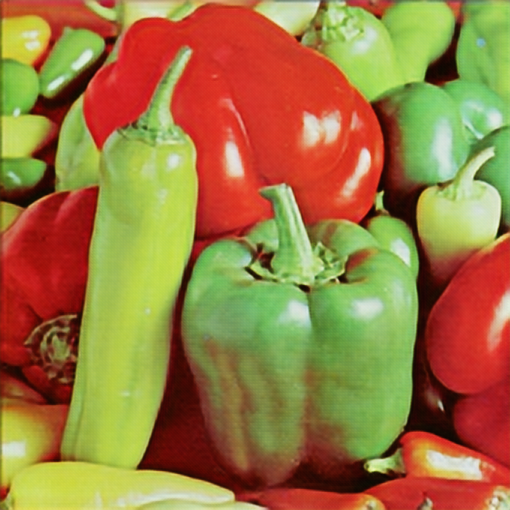
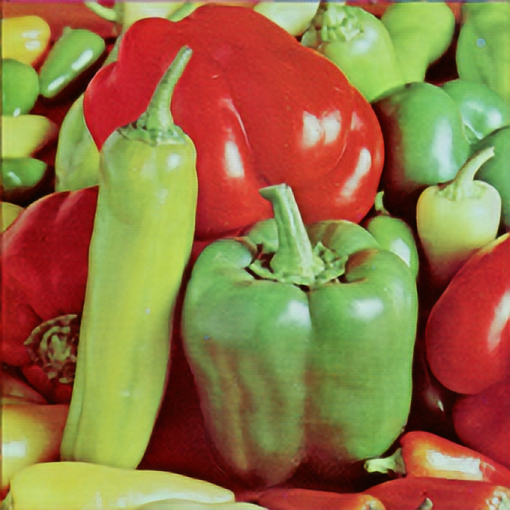
bb_try-sharp-in-aug

diff --git a/train.py b/train.py
@@ -13,6 +13,7 @@ import torch.optim as optim
 import torch.utils.data
 
 from sklearn.model_selection import train_test_split
+from sklearn.model_selection import KFold
 from math import log10
 from tqdm import tqdm
 import pandas as pd
@@ -26,8 +27,9 @@ if __name__ == "__main__":
     parser.add_argument("--dataset-path", required=True, type=str, help="path to training dataset")
     parser.add_argument("--crop_size", default=88, type=int, help="training images crop size")
     parser.add_argument(
-        "--upscale_factor", default=4, type=int, help="super resolution upscale factor"
-    ) # choices=[2, 4, 8], 
+        "--upscale_factor", default=4, choices=[2, 4, 8],
+        type=int, help="super resolution upscale factor"
+    )
     parser.add_argument("--epochs", default=30, type=int, help="# of epochs")
     parser.add_argument("--batch-size", default=64, type=int, help="batch size")
     parser.add_argument("--save-path", default="models", type=str, help="path to save training weight")
@@ -43,25 +45,45 @@ if __name__ == "__main__":
     SAVE_PATH      = args.save_path
     os.makedirs(SAVE_PATH, exist_ok=True)
 
+    # Private attribute
+    GEN_WEIGHT = "models/5fold_gen_SRx8.pth"
+    DIS_WEIGHT = "models/5fold_dis_SRx8.pth"
+    VAL_IMAGE_SAVE_FREQ = 50
+    VAL_IMAGE_SAVE_N    = 1
+    FOLD_ID = 0
+
     TRAIN_PATH = "DS_tv/train"
     VALID_PATH = "DS_tv/valid"
     os.makedirs(TRAIN_PATH, exist_ok=True)
     os.makedirs(VALID_PATH, exist_ok=True)
     img_names = os.listdir(DATASET_PATH)
-    train_imgs, valid_imgs = train_test_split(img_names, test_size=0.2)
-    for img_name in train_imgs:
+    # train_imgs, valid_imgs = train_test_split(img_names, test_size=0.2)
+    # for img_name in train_imgs:
+    #     shutil.copyfile(os.path.join(DATASET_PATH, img_name), os.path.join(TRAIN_PATH, img_name))
+    # for img_name in valid_imgs:
+    #     shutil.copyfile(os.path.join(DATASET_PATH, img_name), os.path.join(VALID_PATH, img_name))
+    kf = KFold(n_splits=5, shuffle=True, random_state=2022)
+    tra_val_pair = [fold for fold in kf.split(img_names)]
+    for img_id in tra_val_pair[FOLD_ID][0]:
+        img_name = img_names[img_id]
         shutil.copyfile(os.path.join(DATASET_PATH, img_name), os.path.join(TRAIN_PATH, img_name))
-    for img_name in valid_imgs:
+    for img_id in tra_val_pair[FOLD_ID][1]:
+        img_name = img_names[img_id]
         shutil.copyfile(os.path.join(DATASET_PATH, img_name), os.path.join(VALID_PATH, img_name))
 
+
     train_set = TrainDatasetFromFolder(TRAIN_PATH, crop_size=CROP_SIZE, upscale_factor=UPSCALE_FACTOR)
-    val_set = ValDatasetFromFolder(VALID_PATH, upscale_factor=UPSCALE_FACTOR)
+    valid_set = ValDatasetFromFolder(VALID_PATH, upscale_factor=UPSCALE_FACTOR)
     train_loader = DataLoader(dataset=train_set, num_workers=4, batch_size=BATCH_SIZE, shuffle=True)
-    val_loader = DataLoader(dataset=val_set, num_workers=4, batch_size=1, shuffle=True)
+    val_loader = DataLoader(dataset=valid_set, num_workers=4, batch_size=1, shuffle=True)
 
     netG = Generator(UPSCALE_FACTOR)
+    if GEN_WEIGHT is not None:
+        netG.load_state_dict(torch.load(GEN_WEIGHT))
     print("# generator parameters:", sum(param.numel() for param in netG.parameters()))
     netD = Discriminator()
+    if DIS_WEIGHT is not None:
+        netD.load_state_dict(torch.load(DIS_WEIGHT))
     print("# discriminator parameters:", sum(param.numel() for param in netD.parameters()))
 
     generator_criterion = GeneratorLoss()
@@ -170,12 +192,11 @@ if __name__ == "__main__":
                     [display_transform()(val_hr_restore.squeeze(0)), display_transform()(hr.data.cpu().squeeze(0)),
                      display_transform()(sr.data.cpu().squeeze(0))])
 
-            if epoch % 10 == 0 and epoch != 0:
+            if epoch % VAL_IMAGE_SAVE_FREQ == 0 and epoch != 0:
                 val_images = torch.stack(val_images)
                 val_images = torch.chunk(val_images, val_images.size(0) // 15)
 
-                n_export_image = 3
-                for img_idx in range(min(n_export_image, len(val_images))):
+                for img_idx in range(min(VAL_IMAGE_SAVE_N, len(val_images))):
                     image = val_images[img_idx]
                     img_name = "SRF_{}_ep{}_{}.png".format(UPSCALE_FACTOR, epoch, img_idx)
                     image = utils.make_grid(image, nrow=3, padding=5)

diff --git a/inference.py b/inference.py
@@ -2,43 +2,65 @@ from torchvision.transforms import ToPILImage
 from torchvision.transforms import ToTensor
 from torch.autograd import Variable
 from SRGAN.model import Generator
+import numpy as np
 from PIL import Image
 import torch
 import time
+import cv2
 import os
 
-
-UPSCALE_FACTOR = 4
-TEST_MODE = "GPU"
-TEST_MODE = True if TEST_MODE == "GPU" else False
-MODEL_PATH = "models/netG_SRx4.pth"
-
-model = Generator(UPSCALE_FACTOR).eval()
-if TEST_MODE:
-    model.cuda()
-    model.load_state_dict(torch.load(MODEL_PATH))
-else:
-    model.load_state_dict(
-        torch.load(MODEL_PATH, map_location=lambda storage, loc: storage)
+if __name__ == "__main__":
+    import argparse
+    parser = argparse.ArgumentParser(description="Transform LR to SR")
+    parser.add_argument(
+        "--upscale_factor", required=True, default=4, choices=[2, 4, 8],
+        type=int, help="super resolution upscale factor"
     )
+    parser.add_argument(
+        "--model-path", required=True, default="models", type=str, help="model path"
+    )
+    args = parser.parse_args()
+    # print(args)
+    # exit(0)
 
-DATASET_PATH = "testing_lr_images"
-OUTPUT_PATH =  "testing_hr_images"
-os.makedirs(OUTPUT_PATH, exist_ok=True)
-img_names = os.listdir(DATASET_PATH)
-for i in range(14):
-    TimeStpBegin = time.time()
-    lr_img = Image.open(os.path.join(DATASET_PATH, "{:02d}.png".format(i)))
-    width, height = lr_img.size
-    image = Variable(ToTensor()(lr_img), volatile=True).unsqueeze(0)
+    UPSCALE_FACTOR = args.upscale_factor
+    TEST_MODE = "GPU"
+    TEST_MODE = True if TEST_MODE == "GPU" else False
+    MODEL_PATH = args.model_path
+
+    model = Generator(UPSCALE_FACTOR).eval()
     if TEST_MODE:
-        image = image.cuda()
-    img_pred = model(image)
-    x4_img = ToPILImage()(img_pred[0].data.cpu())
-    x4_img.save(os.path.join(OUTPUT_PATH, "{:02d}_pred_4x.png".format(i)))
-    print(
-        "Inference image {:02d}.png for {:.2f} sec.".format(i, time.time() - TimeStpBegin)
-    )
+        model.cuda()
+        model.load_state_dict(torch.load(MODEL_PATH))
+    else:
+        model.load_state_dict(
+            torch.load(MODEL_PATH, map_location=lambda storage, loc: storage)
+        )
 
-    # hr_img = x4_img.resize((width * 3, height * 3), resample=Image.BICUBIC)
-    # hr_img.save(os.path.join(OUTPUT_PATH, "{:02d}_pred.png".format(i)))
+    DATASET_PATH = "testing_lr_images"
+    OUTPUT_PATH = "testing_hr_images"
+    os.makedirs(OUTPUT_PATH, exist_ok=True)
+    img_names = os.listdir(DATASET_PATH)
+    for i in range(14):
+        TimeStpBegin = time.time()
+        lr_img = Image.open(os.path.join(DATASET_PATH, "{:02d}.png".format(i)))
+        print("Inference image {:02d}.png with size={}.".format(i, lr_img.size))
+        width, height = lr_img.size
+        with torch.no_grad():
+            image = Variable(ToTensor()(lr_img)).unsqueeze(0)
+            if TEST_MODE:
+                image = image.cuda()
+            img_pred = model(image)
+        img_pred = ToPILImage()(img_pred[0].data.cpu())
+        # img_pred.save(os.path.join(OUTPUT_PATH, "{:02d}_pred_4x.png".format(i)))
+        print("\tInference image to size={} for {:.2f} sec.".format(img_pred.size, time.time() - TimeStpBegin))
+
+        # hr_img = img_pred.resize((width * 3, height * 3), resample=Image.BICUBIC)
+        # print("\tResize to size={}.".format(hr_img.size))
+        # hr_img.save(os.path.join(OUTPUT_PATH, "{:02d}_pred.png".format(i)))
+        hr_img = cv2.resize(
+            np.array(img_pred)[:, :, ::-1], (width * 3, height * 3),
+            interpolation=cv2.INTER_AREA
+        )  # cv2.INTER_CUBIC
+        print("\tResize to size={}.".format(hr_img.shape))
+        cv2.imwrite(os.path.join(OUTPUT_PATH, "{:02d}_pred.png".format(i)), hr_img)

diff --git a/SRGAN/data_utils.py b/SRGAN/data_utils.py
@@ -2,14 +2,13 @@ from os import listdir
 from os.path import join
 
 from PIL import Image
-from torch.utils.data.dataset import Dataset
-from torchvision.transforms import Compose
-from torchvision.transforms import RandomCrop
+import torchvision.transforms as TT
+from torchvision.transforms import Resize
 from torchvision.transforms import ToTensor
 from torchvision.transforms import ToPILImage
 from torchvision.transforms import CenterCrop
-from torchvision.transforms import Resize
 from torchvision.transforms import InterpolationMode
+from torch.utils.data.dataset import Dataset
 from math import ceil
 
 def is_image_file(filename):
@@ -21,14 +20,17 @@ def calculate_valid_crop_size(crop_size, upscale_factor):
 
 
 def train_hr_transform(crop_size):
-    return Compose([
-        RandomCrop(crop_size),
+    return TT.Compose([
+        TT.RandomCrop(crop_size),
+        TT.RandomHorizontalFlip(p=0.5),
+        TT.RandomVerticalFlip(p=0.5),
+        TT.RandomAdjustSharpness(sharpness_factor=2, p=1),
         ToTensor(),
     ])
 
 
 def train_lr_transform(crop_size, upscale_factor):
-    return Compose([
+    return TT.Compose([
         ToPILImage(),
         Resize(crop_size // upscale_factor, interpolation=InterpolationMode.BICUBIC),
         ToTensor()
@@ -36,7 +38,7 @@ def train_lr_transform(crop_size, upscale_factor):
 
 
 def display_transform():
-    return Compose([
+    return TT.Compose([
         ToPILImage(),
         Resize(400),
         CenterCrop(400),
@@ -58,7 +60,7 @@ class TrainDatasetFromFolder(Dataset):
         if min(width, height) < self.crop_size:
             ratio = self.crop_size / min(width, height)
             img = img.resize(
-                (ceil(width * ratio), ceil(height * ratio)), resample=PIL.Image.BICUBIC
+                (ceil(width * ratio), ceil(height * ratio)), resample=Image.BICUBIC
             )
         hr_image = self.hr_transform(img)
         lr_image = self.lr_transform(hr_image)

diff --git a/README.md b/README.md
@@ -19,9 +19,16 @@ from torchsummary import summary
 import torch
 torch.cuda.is_available()
 for GPU_ID in range(torch.cuda.device_count()):
-	print(torch.cuda.get_device_name(GPU_ID))
+    print(torch.cuda.get_device_name(GPU_ID))
 ```
 
-original                   |  3x Super Resolution
-:-------------------------:|:-------------------------:
-![](images/testing_lr_images/00.png)  |  ![](images/testing_hr_images/00_pred.png)
+<p style="margin: auto">
+    <img src="images/testing_lr_images/00.png" style="width: 40%">
+    <img src="images/testing_lr_images/00.png" style="width: 40%">
+</p>
+
+## Reference
+
+[leftthomas/SRGAN](https://github.com/leftthomas/SRGAN)
+
+[Photo-Realistic Single Image Super-Resolution Using a Generative Adversarial Network](https://arxiv.org/abs/1609.04802)
